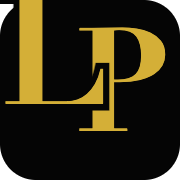
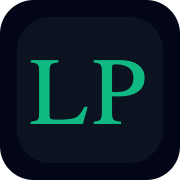
save work

diff --git a/app/ventes/[id]/_components/MobileActionBar.tsx b/app/ventes/[id]/_components/MobileActionBar.tsx
@@ -2,6 +2,7 @@
 
 import { Lock, ShoppingBag, Gavel } from 'lucide-react'
 import type { Auction, AuctionAttributes } from '@/types'
+import { is } from 'date-fns/locale'
 
 interface MobileActionBarProps {
 	auction: Auction
@@ -9,6 +10,8 @@ interface MobileActionBarProps {
 	isFixedPrice: boolean
 	isConnected: boolean
 	onPlaceBid: (amount: number) => void
+	onSignIn: () => void
+	onBuyNowClick: () => void
 	isBidding?: boolean
 }
 
@@ -16,6 +19,9 @@ export function MobileActionBar({
 	auction,
 	isConnected,
 	onPlaceBid,
+	onSignIn,
+	isFixedPrice,
+	onBuyNowClick,
 	isBidding = false
 }: MobileActionBarProps) {
 
@@ -37,7 +43,7 @@ export function MobileActionBar({
 		if (!isConnected) {
 			return (
 				<button
-					onClick={() => onPlaceBid(0)} // ouvrira modal connexion
+					onClick={() => onSignIn()}
 					className="flex-grow h-16 bg-[var(--text-primary)] text-[var(--bg-primary)] rounded-xl font-black uppercase text-[10px] tracking-[0.2em] shadow-xl flex items-center justify-center gap-2 active:scale-95 transition-all"
 				>
 					<Lock size={16} />
@@ -46,27 +52,58 @@ export function MobileActionBar({
 			);
 		}
 
+		if (!isFixedPrice)
+			return (
+				<div className='flex flex-col w-full'>
+					<button
+						onClick={() => onPlaceBid(nextMinAmount)}
+						disabled={!isBidding}
+						className={`w-full h-14 bg-[var(--accent-gold)] text-[var(--text-primary)] font-black rounded-xl shadow-lg flex items-center justify-center gap-2 transition-transform`}
+					>
+						<span className="uppercase tracking-wider text-sm">{isBidding ? 'Envoi...' : 'Confirmer ma position'}</span>
+						{!isBidding && (
+							<span className="tracking-tight text-center">
+								{formatCurrency(nextMinAmount)}
+							</span>
+						)}
+					</button>
+
+					{/* Explication courte */}
+					{!isBidding && (
+						<p className="text-[10px] text-center text-[var(--text-secondary)] leading-snug mt-2 px-2">
+							Montant engagé pour accéder à l’expérience. Accès selon positions retenues.
+						</p>
+					)}
+				</div>
+			);
 		return (
 			<div className='flex flex-col w-full'>
 				<button
-					onClick={() => onPlaceBid(nextMinAmount)}
-					disabled={!isBidding}
-					className={`w-full h-14 bg-[var(--accent-gold)] text-[var(--text-primary)] font-black rounded-xl shadow-lg flex items-center justify-center gap-2 transition-transform`}
-				>
-					<span className="uppercase tracking-wider text-sm">{isBidding ? 'Envoi...' : 'Confirmer ma position'}</span>
+					onClick={() => onBuyNowClick()}
+					disabled={isBidding}
+					className="
+    w-full h-14 
+    bg-[var(--accent-gold)] 
+    text-[var(--text-primary)] 
+    font-black rounded-xl shadow-lg 
+    flex items-center justify-center gap-2 
+    transition-all duration-300
+
+    disabled:opacity-40
+    disabled:cursor-not-allowed
+    disabled:shadow-none
+    disabled:scale-100
+
+    hover:scale-[1.02]
+    active:scale-[0.98]
+  "				>
+					<span className="uppercase tracking-wider text-sm">{isBidding ? 'Envoi...' : 'Sécuriser ce séjour'}</span>
 					{!isBidding && (
 						<span className="tracking-tight text-center">
-							{formatCurrency(nextMinAmount)}
+							{formatCurrency(Number(auction.buy_now_price))}
 						</span>
 					)}
 				</button>
-
-				{/* Explication courte */}
-				{!isBidding && (
-					<p className="text-[10px] text-center text-[var(--text-secondary)] leading-snug mt-2 px-2">
-						Montant engagé pour accéder à l’expérience. Accès selon positions retenues.
-					</p>
-				)}
 			</div>
 		);
 	};

diff --git a/app/ventes/[id]/page.tsx b/app/ventes/[id]/page.tsx
@@ -11,6 +11,7 @@ import AuctionGallery from '@/components/AuctionGallery'
 import BidHistory from '@/components/BidHistory'
 import Toast, { ToastType } from '@/components/Toast'
 import { AuctionResultModal } from '@/components/AuctionResultModal'
+
 import {
     HeaderNavigation,
     TitleSection,
@@ -24,6 +25,7 @@ import {
     ExperienceNotFound,
 } from './_components'
 import { useUser } from '@/hooks/UserContext'
+import { BuyNowPopup } from './_components/PricingSidebar/BuyNowPopup'
 
 // --- HELPERS ---
 const formatTimeLeft = (expiryDate: string): string => {
@@ -53,6 +55,7 @@ export default function AuctionDetailsPage() {
     const { auction, bids, loading, isAuthOpen, setIsAuthOpen, winnerData } = useAuctionData(id as string)
     const { user } = useUser()
     const [toast, setToast] = useState<{ msg: string | null; type: ToastType }>({ msg: null, type: null })
+    const [showBuyNowPopup, setShowBuyNowPopup] = useState(false);
 
     const showToast = (msg: string, type: ToastType) => {
         setToast({ msg, type })
@@ -75,6 +78,13 @@ export default function AuctionDetailsPage() {
 
     const [timeLeft, setTimeLeft] = useState('')
 
+    const handleBuyNow = () => setShowBuyNowPopup(true)
+    const handleClosePopup = () => setShowBuyNowPopup(false)
+    const handleBuyNowSubmit = (contactData: { name: string; email: string; phone: string }) => {
+        setShowBuyNowPopup(false)
+        // Pass contact info to onPlaceBid
+        // You can handle contactData here (send to API, etc.)
+    }
     useEffect(() => {
         if (auction?.end_at) {
             setTimeLeft(formatTimeLeft(auction.end_at))
@@ -154,6 +164,7 @@ export default function AuctionDetailsPage() {
                             user={user}
                             onPlaceBid={handlePlaceBid}
                             onSignIn={() => setIsAuthOpen(true)}
+                            onBuyNowClick={handleBuyNow}
                         />
                     </div>
 
@@ -165,10 +176,23 @@ export default function AuctionDetailsPage() {
             </div>
 
             {/* MOBILE ACTION BAR */}
-            <MobileActionBar auction={auction} attr={attr} isFixedPrice={isFixedPrice} isConnected={!!user} onPlaceBid={handlePlaceBid} />
+            <MobileActionBar
+                auction={auction} attr={attr}
+                isFixedPrice={isFixedPrice}
+                isConnected={!!user}
+                onPlaceBid={handlePlaceBid}
+                onSignIn={() => setIsAuthOpen(true)}
+                isBidding={isBidding}
+                onBuyNowClick={handleBuyNow}
+            />
 
             {/* RESULT MODAL */}
             <AuctionResultModal winnerData={winnerData} user={user} isFinished={isFinished} auction_id={auction.id} />
+            <BuyNowPopup
+                isOpen={showBuyNowPopup}
+                onClose={handleClosePopup}
+                onSubmit={handleBuyNowSubmit}
+            />
         </main>
     )
 }

diff --git a/components/Navbar.tsx b/components/Navbar.tsx
@@ -28,21 +28,36 @@ export default function Navbar({ user, onAuthClick }: NavbarProps) {
             }}>
             <div className="max-w-7xl mx-auto px-4 sm:px-6 h-16 flex items-center justify-between">
 
-                <Link href="/" className="flex items-center gap-3 group cursor-pointer">
-                    {/* Conteneur du Logo avec effet de halo discret */}
-                    <div className="relative flex items-center justify-center w-12 h-12">
-                        {/* Halo lumineux au survol */}
+                <Link href="/" className="flex items-center group cursor-pointer select-none">
+
+                    {/* Logo container */}
+                    <div className="relative flex items-center justify-center w-8 h-8 shrink-0">
+
+                        {/* Subtle glow */}
                         <div
-                            className="absolute inset-0 rounded-full opacity-0 group-hover:opacity-20 transition-all duration-500 blur-md scale-125"
+                            className="absolute inset-0 rounded-full opacity-0 group-hover:opacity-20 transition-all duration-700 blur-lg"
                             style={{ backgroundColor: 'var(--accent-gold)' }}
                         />
-                        <Logo className="w-full h-full relative z-10 transition-transform duration-500 group-hover:scale-110" />
+
+                        <Logo className="w-full h-full relative z-10 transition-transform duration-500 ease-out group-hover:scale-[1.05]" />
                     </div>
 
-                    {/* Nom de la marque sur une seule ligne */}
-                    <span className="text-xl font-bold tracking-tighter" style={{ color: 'var(--text-primary)' }}>
-                        LOISIRS<span style={{ color: 'var(--accent-gold)' }} className="ml-0.5">PRIVÉ</span>
+                    {/* Brand name */}
+                    <span className="flex items-center text-[15px] md:text-[19px] ml-2 font-medium tracking-[-0.015em] leading-none">
+
+                        <span style={{ color: 'var(--text-primary)', opacity: 0.9 }}>
+                            LOISIRS
+                        </span>
+
+                        <span
+                            className="ml-1 transition-all duration-700 ease-out"
+                            style={{ color: 'var(--accent-gold)' }}
+                        >
+                            PRIVÉ
+                        </span>
+
                     </span>
+
                 </Link>
 
                 {/* RIGHT SECTION */}

diff --git a/app/ventes/[id]/_components/PricingSidebar/BuyNowPopup.tsx b/app/ventes/[id]/_components/PricingSidebar/BuyNowPopup.tsx
@@ -1,4 +1,5 @@
 import React from 'react'
+import { createPortal } from 'react-dom'
 import { X } from 'lucide-react'
 
 interface BuyNowPopupProps {
@@ -7,16 +8,17 @@ interface BuyNowPopupProps {
   onSubmit: (data: { name: string; email: string; phone: string }) => void
 }
 
-export const ContactInfoPopup: React.FC<BuyNowPopupProps> = ({ isOpen, onClose, onSubmit }) => {
+export const BuyNowPopup: React.FC<BuyNowPopupProps> = ({ isOpen, onClose, onSubmit }) => {
   const [name, setName] = React.useState('')
   const [email, setEmail] = React.useState('')
   const [phone, setPhone] = React.useState('')
 
   if (!isOpen) return null
 
-  return (
+  if (typeof window === 'undefined' || !document.body) return null
+
+  return createPortal(
     <div className="fixed inset-0 z-50 flex items-center justify-center bg-black/60 backdrop-blur-sm px-4">
-      
       <div className="w-full max-w-md rounded-2xl p-6 shadow-2xl border"
         style={{
           backgroundColor: 'var(--bg-secondary)',
@@ -24,8 +26,8 @@ export const ContactInfoPopup: React.FC<BuyNowPopupProps> = ({ isOpen, onClose, 
         }}
       >
         <p className="text-[10px] text-[var(--accent-gold)] uppercase tracking-widest">
-  Accès réservé
-</p>
+          Accès réservé
+        </p>
         {/* Header */}
         <div className="flex items-start justify-between mb-4">
           <div>
@@ -45,7 +47,7 @@ export const ContactInfoPopup: React.FC<BuyNowPopupProps> = ({ isOpen, onClose, 
         <p className="text-[13px] leading-relaxed mb-6"
           style={{ color: 'var(--text-secondary)' }}
         >
-          Renseignez vos coordonnées pour confirmer votre demande.  
+          Renseignez vos coordonnées pour confirmer votre demande.
           L’établissement vous contactera directement pour finaliser votre séjour.
         </p>
 
@@ -116,6 +118,7 @@ export const ContactInfoPopup: React.FC<BuyNowPopupProps> = ({ isOpen, onClose, 
           Vos informations sont transmises uniquement à l’établissement concerné
         </p>
       </div>
-    </div>
+    </div>,
+    document.body
   )
 }

diff --git a/app/ventes/[id]/_components/PricingSidebar.tsx b/app/ventes/[id]/_components/PricingSidebar.tsx
@@ -1,7 +1,6 @@
 'use client'
 import { Timer, History } from 'lucide-react'
 import { BuyNowButton } from './PricingSidebar/BuyNowButton'
-import { ContactInfoPopup } from './PricingSidebar/BuyNowPopup'
 import { BidButton } from './PricingSidebar/BidButton'
 import { Auction } from '@/types'
 import { useState } from 'react';
@@ -15,6 +14,7 @@ interface PricingSidebarProps {
 	canBid: boolean;
 	winnerData?: any;
 	user?: any;
+	onBuyNowClick: () => void;
 	onPlaceBid: (amount: number) => void;
 	onSignIn: () => void;
 }
@@ -29,7 +29,8 @@ export function PricingSidebar({
 	winnerData,
 	user,
 	onPlaceBid,
-	onSignIn
+	onSignIn,
+	onBuyNowClick
 }: PricingSidebarProps) {
 	const isFixedPrice = auction.type === 'fixed';
 
@@ -41,16 +42,8 @@ export function PricingSidebar({
 	const nextMinAmount = Number(auction.current_price) + minIncrement;
 
 	// Popup state
-	const [showBuyNowPopup, setShowBuyNowPopup] = useState(false);
-	// ...existing code...
-	const handleBuyNow = () => setShowBuyNowPopup(true)
-	const handleClosePopup = () => setShowBuyNowPopup(false)
-	const handleBuyNowSubmit = (contactData: { name: string; email: string; phone: string }) => {
-		setShowBuyNowPopup(false)
-		// Pass contact info to onPlaceBid
-		onPlaceBid(Number(auction.buy_now_price))
-		// You can handle contactData here (send to API, etc.)
-	}
+	
+	
 
 	return (
 		<div className="sticky top-24 space-y-6">
@@ -138,13 +131,8 @@ export function PricingSidebar({
 						<>
 							<BuyNowButton
 								price={Number(auction.buy_now_price)}
-								onConfirm={handleBuyNow}
+								onConfirm={onBuyNowClick}
 								disabled={isBidding}
-							/>
-							<ContactInfoPopup
-								isOpen={showBuyNowPopup}
-								onClose={handleClosePopup}
-								onSubmit={handleBuyNowSubmit}
 							/>
 						</>
 					) : (

diff --git a/app/page.tsx b/app/page.tsx
@@ -219,12 +219,6 @@ export default function Home() {
 
                 {/* GRILLE VOYAGEUR */}
                 <div className="grid grid-cols-1 sm:grid-cols-2 lg:grid-cols-3 gap-6 md:gap-10">
-
-                    {loading && (
-                        <p style={{ color: 'var(--text-secondary)' }} className="text-center text-sm md:text-base mb-6">
-                            Chargement des offres exclusives pour nos membres…
-                        </p>
-                    )}
                     {loading ? (
                         // SKELETON LUXE AVEC SHIMMER
                         Array.from({ length: 3 }).map((_, i) => (

diff --git a/app/api/auctions/route.ts b/app/api/auctions/route.ts
@@ -15,7 +15,7 @@ export async function GET(request: Request) {
         const { data: auctions, error } = await supabaseAdmin
             .from('auctions')
             .select('*')
-            // .eq("enabled", true)
+            .eq("enabled", true)
             .order('created_at', { ascending: false })
 
         if (error) throw error

diff --git a/app/layout.tsx b/app/layout.tsx
@@ -48,6 +48,11 @@ export const metadata: Metadata = {
 		images: ["/og-image.png"],
 		creator: "@loisirsprive",
 	},
+	icons: {
+		icon: "/favicon.ico",
+		apple: "/apple-touch-icon.png",
+	},
+	manifest: "/manifest.json",
 };
 
 export default function RootLayout({ children, }: Readonly<{
